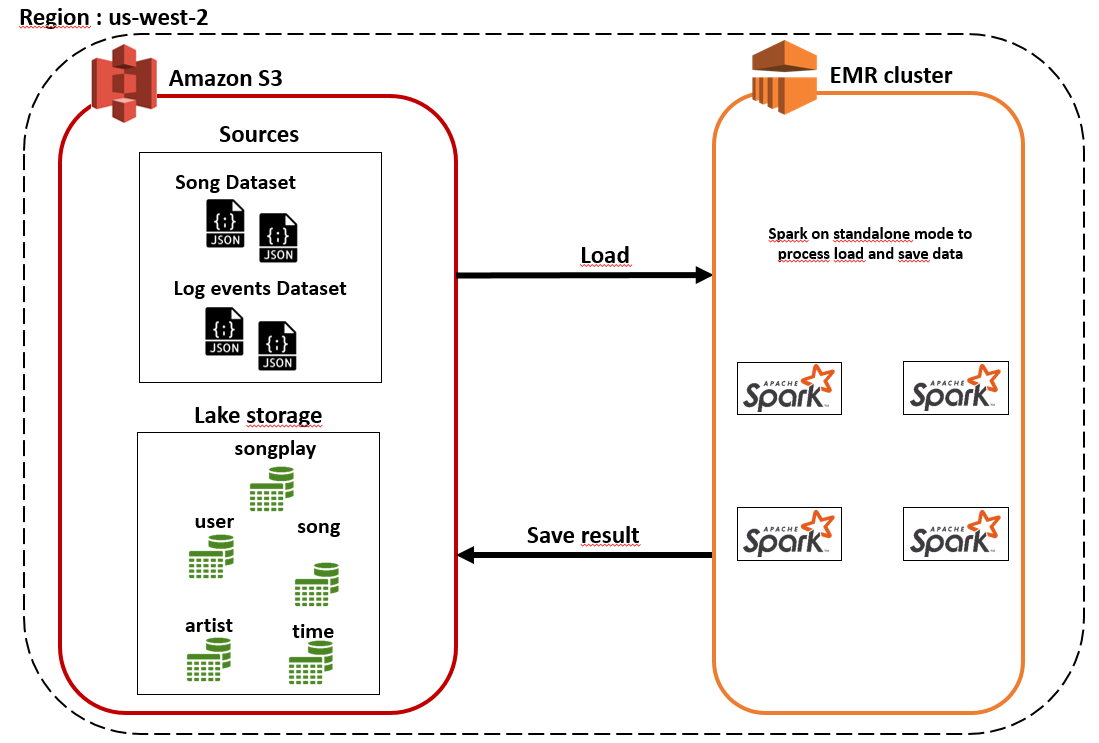
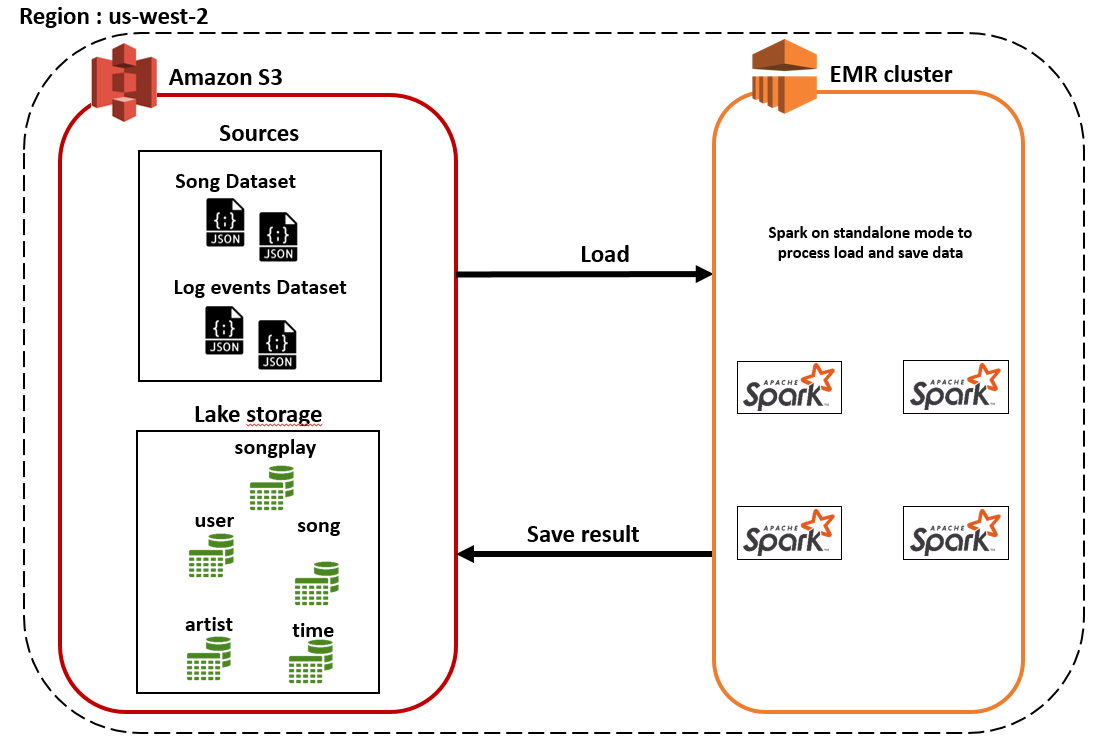
First commit

diff --git a/README.md b/README.md
@@ -1,12 +1,12 @@
 # Data Lake with Amazon S3
-In this project, we will explain how to build an ETL pipeline to extracts data from S3 buckets, transforms data and load into a set of dimensional and fact tables back in S3 bucket for analytics of Sparkify streaming musics application.
+In this project, we will explain how to build an ETL pipeline to extracts data from S3 buckets, transforms data and load back into a set of dimensional and fact tables in S3 bucket for analytics of Sparkify streaming musics application.
 
 ## Data Sources :
-The data stored in 2 datasets that reside in S3 :
+The data stored in 2 places that reside in S3 :
 - [Song_data](s3://udacity-dend/song_data) : JSON files covered the main activities for the users of the music app
 - [Log_data](s3://udacity-dend/log_data) : JSON metadata about users
 
-After ETL processus, the set of tables will be store in S3 bucket with public access to the parquet format file.
+After ETL processing, the set of tables will be stored in S3 bucket with public access in parquet format.
 
 ## Data modeling :
 The data modeling are the same that [Cloud_Data_Warehouse](https://github.com/Iaddiop/Cloud_Data_Warehouse/blob/master/README.md). We have data modeling based on star schema :
@@ -26,19 +26,19 @@ songplay_id, start_time, user_id, level, song_id, artist_id, session_id, locatio
 **- time** : timestamps of records in songplays broken down into specific units, have these columns : start_time, hour, day, week, month, year, weekday
 
 ## Data Lake pipeline processing options:
-- **Option 1 : S3 + Spark on local mode** : this is for testing only not use for production
-![image info](./Diagram1.png)
-- **Option 2 : S3 + Spark on distributed mode on EMR cluster** :
-![image info](./Diagram.png)
+- **Option 1 : S3 + Spark on local mode** : for testing only not use for production
+![image info](./diagram1.png)
+- **Option 2 : S3 + Spark in EMR cluster on standalone mode** :
+![image info](./diagram.png)
 
 ## How to run this project :
 To run this project, please following the below steps :
 
 1 - Create EMR cluster
 
-2 - Copy and paste the `etl.py` script to the EMR cluster on home directory
+2 - Copy and paste the `etl.py` script to the EMR cluster at home directory
 
-3 - Then lunch the etl script : run `etl.py` by submiting spark job to process data (extract, transform and insert data to the S3 bucket), make sure the S3 target bucket are public permission
+3 - Then lunch the etl script : run `etl.py` by submiting spark job to process data (extract, transform and insert data to the S3 bucket), make sure the S3 target bucket have public permission
 
 ## The expected results :
 
